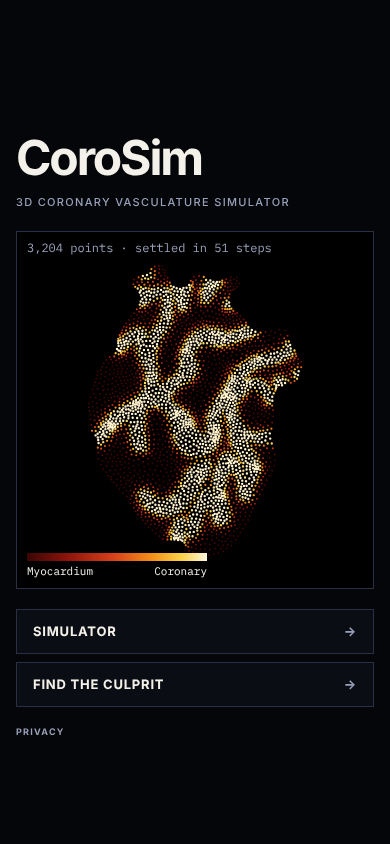
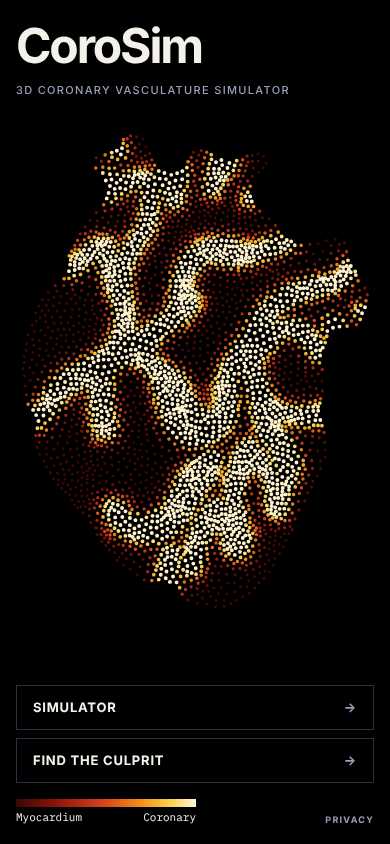
Homepage: the thermogram fills the page, the title over it
The stippled heart is now the page itself: the canvas covers the viewport
on a black screen in both themes, the heart fitted to most of the height
on a wide screen and to the width, a little high, on a phone. The title,
the two doors and the legend are laid over the dots; the doors are dark
glass so the dots show through. The step counter tag at the top is gone.
Settling and stirring are as before, with the pointer read anywhere on the
page and mapped through the heart's placement.

Claude-Session: https://claude.ai/code/session_01BTH8XhUoXpskww4oNBm1ba

diff --git a/src/home.css b/src/home.css
@@ -1,48 +1,32 @@
-/* The homepage: one plate. The thermogram is the instrument; the title and the two doors sit beside it on a desktop
-   and above and below it on a phone. Tokens, type and hairlines are the site's own (style.css); the only color is the
-   thermal ramp, drawn on a black screen in both themes, as the ECG is drawn on paper in both. */
-body.home { max-width: none; min-height: 100dvh; padding: 0; display: grid; place-items: center; }
-.home-main {
-  width: min(100%, 1180px);
-  padding: 28px 16px 20px;
-  display: grid;
-  grid-template-columns: minmax(0, 1fr);
-  gap: 20px;
-}
-.home-head h1 { margin: 0; font: 700 clamp(48px, 8.5vw, 96px)/0.92 var(--font-ui); letter-spacing: -0.045em; }
+/* The homepage: the thermogram is the page. The heart, stippled and thermally colored, fills the viewport on a black
+   screen in both themes (as the ECG is drawn on paper in both), and the title, the two doors and the legend are laid
+   over it. Type and hairlines are the site's own (style.css); the only color is the thermal ramp. */
+body.home { --bg: #000; --panel: #0b0d14; --ink: #f4f1ea; --muted: #98a0b8; --rule: #2b2f45; --link: #f4f1ea; max-width: none; min-height: 100dvh; padding: 0; background: #000; color: var(--ink); overflow: hidden; }
+.art { position: fixed; inset: 0; width: 100%; height: 100%; display: block; background: #000; }
+@media (hover: hover) { .art { cursor: crosshair; } }
+
+/* The overlay lets the pointer through to the dots everywhere but on the links. */
+.home-main { position: relative; z-index: 1; pointer-events: none; min-height: 100dvh; margin: 0; padding: 24px 16px 20px; display: grid; grid-template-rows: auto 1fr auto auto; gap: 16px; }
+.home-main a { pointer-events: auto; }
+.home-head h1 { margin: 0; font: 700 clamp(48px, 9vw, 104px)/0.92 var(--font-ui); letter-spacing: -0.045em; }
 .home-head .kind { margin: 14px 0 0; font: 500 11px/1.5 var(--font-ui); letter-spacing: 0.12em; text-transform: uppercase; color: var(--muted); }
 
-/* The screen: square, hairline-framed, black. The dots are drawn on the canvas; the tag and legend are the
-   simulator's own instrument chrome, in fixed light inks because the screen stays black in the light theme. */
-.thermo { --screen-ink: #f4f1ea; --screen-muted: #98a0b8; position: relative; width: 100%; aspect-ratio: 1; margin: 0; background: #000; border: 1px solid var(--rule); overflow: hidden; }
-.thermo canvas { position: absolute; inset: 0; width: 100%; height: 100%; display: block; }
-@media (hover: hover) { .thermo canvas { cursor: crosshair; } }
-.thermo .tag { position: absolute; left: 10px; top: 8px; font: 12px/1.3 var(--font-data); color: var(--screen-muted); pointer-events: none; }
-@media (max-width: 480px) { .thermo .tag { font-size: 11px; } .thermo .tag .wide { display: none; } }
-.thermo .legend { position: absolute; left: 10px; bottom: 10px; width: 180px; font: 11px/1.3 var(--font-data); color: var(--screen-ink); pointer-events: none; }
-.thermo .bar { height: 8px; margin-bottom: 3px; }
-.thermo .lg { display: flex; justify-content: space-between; gap: 6px; }
-
-/* The two doors: square-framed, uppercase, inverted on hover, like every control on the site. */
-.doors { display: grid; gap: 8px; }
-.doors a { display: flex; justify-content: space-between; align-items: center; gap: 12px; padding: 15px 16px; font: 700 13px/1 var(--font-ui); letter-spacing: 0.06em; text-transform: uppercase; text-decoration: none; color: var(--ink); background: var(--panel); border: 1px solid var(--rule); }
+/* The two doors: square-framed, uppercase, inverted on hover, like every control on the site; dark glass over the dots. */
+.doors { grid-row: 3; display: grid; gap: 8px; }
+.doors a { display: flex; justify-content: space-between; align-items: center; gap: 12px; padding: 15px 16px; font: 700 13px/1 var(--font-ui); letter-spacing: 0.06em; text-transform: uppercase; text-decoration: none; color: var(--ink); background: rgba(0, 0, 0, 0.62); border: 1px solid var(--rule); -webkit-backdrop-filter: blur(6px); backdrop-filter: blur(6px); }
 .doors a::after { content: "→"; color: var(--muted); }
 .doors a:hover, .doors a:hover::after { background: var(--ink); border-color: var(--ink); color: var(--bg); }
-.privacy { justify-self: start; font: 700 9px/1 var(--font-ui); letter-spacing: 0.14em; text-transform: uppercase; color: var(--muted); text-decoration: none; }
+
+.corner { grid-row: 4; display: flex; justify-content: space-between; align-items: flex-end; gap: 16px; }
+.legend { width: 180px; font: 11px/1.3 var(--font-data); color: var(--ink); }
+.legend .bar { height: 8px; margin-bottom: 3px; }
+.legend .lg { display: flex; justify-content: space-between; gap: 6px; }
+.privacy { font: 700 9px/1 var(--font-ui); letter-spacing: 0.14em; text-transform: uppercase; color: var(--muted); text-decoration: none; }
 .privacy:hover { color: var(--ink); text-decoration: underline; text-underline-offset: 3px; }
 
 @media (min-width: 820px) {
-  .home-main {
-    grid-template-columns: minmax(300px, 1fr) auto;
-    grid-template-rows: 1fr auto auto;
-    grid-template-areas: "head art" "doors art" "foot art";
-    column-gap: clamp(32px, 6vw, 96px);
-    row-gap: 0;
-    align-items: end;
-    padding-block: 32px 24px;
-  }
-  .home-head { grid-area: head; align-self: end; padding-bottom: 36px; }
-  .thermo { grid-area: art; width: min(76vh, 54vw, 720px); justify-self: end; }
-  .doors { grid-area: doors; max-width: 380px; }
-  .privacy { grid-area: foot; margin-top: 28px; }
+  .home-main { grid-template-columns: minmax(300px, 420px) 1fr auto; grid-template-rows: 1fr auto; grid-template-areas: "head . ." "doors . corner"; padding: 40px; row-gap: 28px; column-gap: 32px; align-items: end; }
+  .home-head { grid-area: head; }
+  .doors { grid-area: doors; }
+  .corner { grid-area: corner; flex-direction: column; align-items: flex-end; gap: 14px; }
 }

diff --git a/src/home.ts b/src/home.ts
@@ -1,8 +1,9 @@
-// The homepage: the thermogram settles on load and stands still; a cursor over it stirs the dots, which flow back.
-import { Stipple, draw, fieldFromLogo, thermalGradient } from "./stipple";
+// The homepage: the thermogram fills the page, settles on load and stands still; a cursor over it stirs the dots,
+// which flow back. The title and the doors are laid over it (home.css).
+import { Placement, Stipple, draw, fieldFromLogo, thermalGradient } from "./stipple";
 
 const $ = <T extends HTMLElement>(id: string) => document.getElementById(id) as T;
-const canvas = $<HTMLCanvasElement>("art"), tag = $("tag");
+const canvas = $<HTMLCanvasElement>("art");
 const reduced = matchMedia("(prefers-reduced-motion: reduce)").matches;
 const hovers = matchMedia("(hover: hover)").matches; // a mouse or pen: a finger would be scrolling
 const MAX_STEPS = 90, SETTLED = 0.05; // Lloyd steps, and the largest move (raster px) at which the dots count as settled
@@ -12,21 +13,28 @@ $("bar").style.background = thermalGradient();
 
 const img = new Image();
 img.src = "logo-transparent.png";
-img.decode().then(start).catch(() => { tag.textContent = ""; });
+img.decode().then(start).catch(() => {});
 
 function start() {
-  // The point budget follows the screen: about 3 000 dots on a phone, 6 500 on a desktop, so every device stays smooth.
-  const css = canvas.clientWidth || 360, dpr = Math.min(devicePixelRatio || 1, 2);
-  const count = Math.round(Math.min(7000, Math.max(3000, css * 9)));
-  const n = css < 480 ? 320 : 400;
+  // The point budget follows the screen: about 3 500 dots on a phone, 7 000 on a desktop, so every device stays smooth.
+  const short = Math.min(innerWidth, innerHeight) || 360, dpr = Math.min(devicePixelRatio || 1, 2);
+  const count = Math.round(Math.min(7000, Math.max(3000, short * 9)));
+  const n = short < 480 ? 320 : 400;
   const field = fieldFromLogo(img, n);
   const st = new Stipple(field, count);
   const ctx = canvas.getContext("2d")!;
-  let size = 0;
-  const fit = () => { size = Math.round(canvas.clientWidth * dpr); if (canvas.width !== size) canvas.width = canvas.height = size; };
-  const paint = () => { fit(); draw(ctx, st, size, 0.95); };
-  const label = (state: string) => { tag.innerHTML = `${count.toLocaleString("en")} points · <span class="wide">weighted voronoi · </span>${state}`; };
-  new ResizeObserver(paint).observe(canvas);
+  let w = 0, h = 0, at: Placement = { s: 1, ox: 0, oy: 0 };
+  /** The heart fitted to the viewport: most of the height on a wide screen, most of the width and a little high on a
+   *  tall one, where the doors sit along the bottom. */
+  const fit = () => {
+    w = Math.round(innerWidth * dpr); h = Math.round(innerHeight * dpr);
+    if (canvas.width !== w || canvas.height !== h) { canvas.width = w; canvas.height = h; }
+    const b = field.box, bw = b.x1 - b.x0, bh = b.y1 - b.y0, tall = innerHeight > innerWidth;
+    const s = Math.min((tall ? 0.62 : 0.84) * h / bh, (tall ? 0.9 : 0.9) * w / bw);
+    at = { s, ox: w / 2 - ((b.x0 + b.x1) / 2) * s, oy: (tall ? 0.44 : 0.5) * h - ((b.y0 + b.y1) / 2) * s };
+  };
+  const paint = () => { fit(); draw(ctx, st, w, h, at, 0.95); };
+  addEventListener("resize", paint);
 
   // Once settled, the cursor stirs the dots: each frame pushes those under it aside and warms them, and a Lloyd step
   // draws everything back toward its cell's centroid, so the disturbance heals behind the pointer.
@@ -37,26 +45,24 @@ function start() {
     if (pointer.over) st.stir(pointer.x, pointer.y, STIR.radius * n, STIR.push, STIR.warmth);
     const moved = st.step(0.4);
     paint();
-    if (!pointer.over && moved < SETTLED) { running = false; label(hovers ? "settled · stir with the cursor" : "settled"); return; }
+    if (!pointer.over && moved < SETTLED) { running = false; return; }
     requestAnimationFrame(stirring);
   };
-  const wake = () => { if (!running) { running = true; label("stirred"); requestAnimationFrame(stirring); } };
+  const wake = () => { if (!running) { running = true; requestAnimationFrame(stirring); } };
   const listen = () => {
     if (!hovers || reduced) return;
-    canvas.addEventListener("pointermove", (e) => {
+    addEventListener("pointermove", (e) => {
       if (e.pointerType === "touch") return;
-      const r = canvas.getBoundingClientRect();
-      pointer.x = ((e.clientX - r.left) / r.width) * n; pointer.y = ((e.clientY - r.top) / r.height) * n; pointer.over = true;
+      pointer.x = (e.clientX * dpr - at.ox) / at.s; pointer.y = (e.clientY * dpr - at.oy) / at.s; pointer.over = true;
       wake();
     });
-    canvas.addEventListener("pointerleave", () => { pointer.over = false; wake(); });
+    document.addEventListener("pointerleave", () => { pointer.over = false; wake(); });
   };
 
   let done = false;
-  const finish = () => { done = true; st.settle(); paint(); label(`settled in ${st.iterations} steps${hovers && !reduced ? " · stir with the cursor" : ""}`); listen(); };
+  const finish = () => { done = true; st.settle(); paint(); listen(); };
   if (reduced) {
     // No animation: relax in chunks that leave the page responsive, and draw once, settled.
-    label("relaxing");
     const chunk = () => {
       const t0 = performance.now();
       while (performance.now() - t0 < 24) if (st.step() < SETTLED || st.iterations >= MAX_STEPS) return finish();
@@ -68,9 +74,9 @@ function start() {
   const frame = () => {
     if (done) return;
     const moved = st.step(OMEGA);
-    paint(); label("relaxing");
+    paint();
     if (moved < SETTLED || st.iterations >= MAX_STEPS) finish(); else requestAnimationFrame(frame);
   };
-  paint(); label("relaxing");
+  paint();
   requestAnimationFrame(frame);
 }

diff --git a/src/stipple.ts b/src/stipple.ts
@@ -7,8 +7,11 @@
 // black → deep red → orange → yellow → near-white, so the vessels read hot against a cooler myocardium.
 import { Delaunay } from "d3-delaunay";
 
-/** Square rasters, n × n, row-major: density (0..1, 0 outside the heart) and heat (0 cold .. 1 on a vessel). */
-export interface Field { n: number; rho: Float32Array; heat: Float32Array }
+/** Square rasters, n × n, row-major: density (0..1, 0 outside the heart) and heat (0 cold .. 1 on a vessel), and the
+ *  box the heart occupies, in raster pixels, for fitting it to a screen. */
+export interface Field { n: number; rho: Float32Array; heat: Float32Array; box: { x0: number; y0: number; x1: number; y1: number } }
+/** How the raster lands on a canvas: device pixels per raster pixel, and the raster origin in device pixels. */
+export interface Placement { s: number; ox: number; oy: number }
 
 /** The square of the stamp around the heart, in logo pixels, and the radius inside which there is no ring (the
  *  rings start 410 px from the center). The heart is 557 × 756 px, so it fills about four fifths of the height. */
@@ -57,14 +60,16 @@ export function fieldFromLogo(img: HTMLImageElement, n: number, closing = 0.03, 
   const body = erode(dilate(stamp, n, k), n, k); // the stamp with its grooves closed over
   const groove = dilate(erode(mask(n, (i) => !!body[i] && !stamp[i]), n, 1.5), n, 1.5); // the grooves, less the stamp's speckle
   const dv = distanceTo(groove, n), s = sigma * n;
-  const rho = new Float32Array(n * n), heat = new Float32Array(n * n);
+  const rho = new Float32Array(n * n), heat = new Float32Array(n * n), box = { x0: n, y0: n, x1: 0, y1: 0 };
   for (let i = 0; i < n * n; i++) {
     if (!body[i]) continue;
     const h = Math.exp(-((dv[i] / s) ** 2));
     heat[i] = h;
     rho[i] = 0.22 + 0.78 * h * h; // hot regions are denser as well as brighter
+    const x = i % n, y = (i - x) / n;
+    box.x0 = Math.min(box.x0, x); box.y0 = Math.min(box.y0, y); box.x1 = Math.max(box.x1, x + 1); box.y1 = Math.max(box.y1, y + 1);
   }
-  return { n, rho, heat };
+  return { n, rho, heat, box };
 }
 
 /** Thermal ramp, black-body style. The black end is the ground itself: the coldest dot is still a deep red. */
@@ -153,18 +158,19 @@ export class Stipple {
   }
 }
 
-/** Draw the dots on a canvas, batched by color, with hotter dots slightly larger. `size` is the canvas size in device pixels. */
-export function draw(ctx: CanvasRenderingContext2D, st: Stipple, size: number, dot: number) {
-  const BINS = 32, n = st.field.n, s = size / n;
+/** Draw the dots on a canvas of `w` × `h` device pixels, batched by color, hotter dots slightly larger; `dot` is the
+ *  dot radius in raster pixels. */
+export function draw(ctx: CanvasRenderingContext2D, st: Stipple, w: number, h: number, at: Placement, dot: number) {
+  const BINS = 32, { s, ox, oy } = at;
   const byBin: number[][] = Array.from({ length: BINS }, () => []);
   for (let i = 0; i < st.count; i++) byBin[Math.min(BINS - 1, Math.floor(Math.min(1, st.heat[i] + st.warm[i]) * BINS))].push(i);
-  ctx.clearRect(0, 0, size, size);
+  ctx.clearRect(0, 0, w, h);
   for (let b = 0; b < BINS; b++) {
     if (!byBin[b].length) continue;
     const t = (b + 0.5) / BINS, r = dot * s * (0.85 + 0.3 * t);
     ctx.fillStyle = thermal(t);
     ctx.beginPath();
-    for (const i of byBin[b]) { const x = st.points[2 * i] * s, y = st.points[2 * i + 1] * s; ctx.moveTo(x + r, y); ctx.arc(x, y, r, 0, 6.283); }
+    for (const i of byBin[b]) { const x = ox + st.points[2 * i] * s, y = oy + st.points[2 * i + 1] * s; ctx.moveTo(x + r, y); ctx.arc(x, y, r, 0, 6.283); }
     ctx.fill();
   }
 }

diff --git a/index.html b/index.html
@@ -18,21 +18,20 @@ if (/^#s=/.test(location.hash)) location.replace("sim/" + location.hash);
 <link rel="stylesheet" href="/src/home.css">
 </head>
 <body class="home">
+<canvas id="art" class="art" aria-label="The heart as a thermogram: stippled, its coronary arteries hot against the muscle"></canvas>
 <main class="home-main">
   <header class="home-head">
     <h1>CoroSim</h1>
     <p class="kind">3D Coronary Vasculature Simulator</p>
   </header>
-  <figure class="thermo" aria-label="The heart as a thermogram: stippled, its coronary arteries hot against the muscle">
-    <canvas id="art"></canvas>
-    <div class="tag" id="tag"></div>
-    <div class="legend"><div class="bar" id="bar"></div><div class="lg"><span>Myocardium</span><span>Coronary</span></div></div>
-  </figure>
   <nav class="doors" aria-label="Pages">
     <a href="sim/">Simulator</a>
     <a href="game/">Find the culprit</a>
   </nav>
-  <a class="privacy" href="privacy.html">Privacy</a>
+  <aside class="corner">
+    <div class="legend"><div class="bar" id="bar"></div><div class="lg"><span>Myocardium</span><span>Coronary</span></div></div>
+    <a class="privacy" href="privacy.html">Privacy</a>
+  </aside>
 </main>
 <script type="module" src="/src/home.ts"></script>
 </body>
